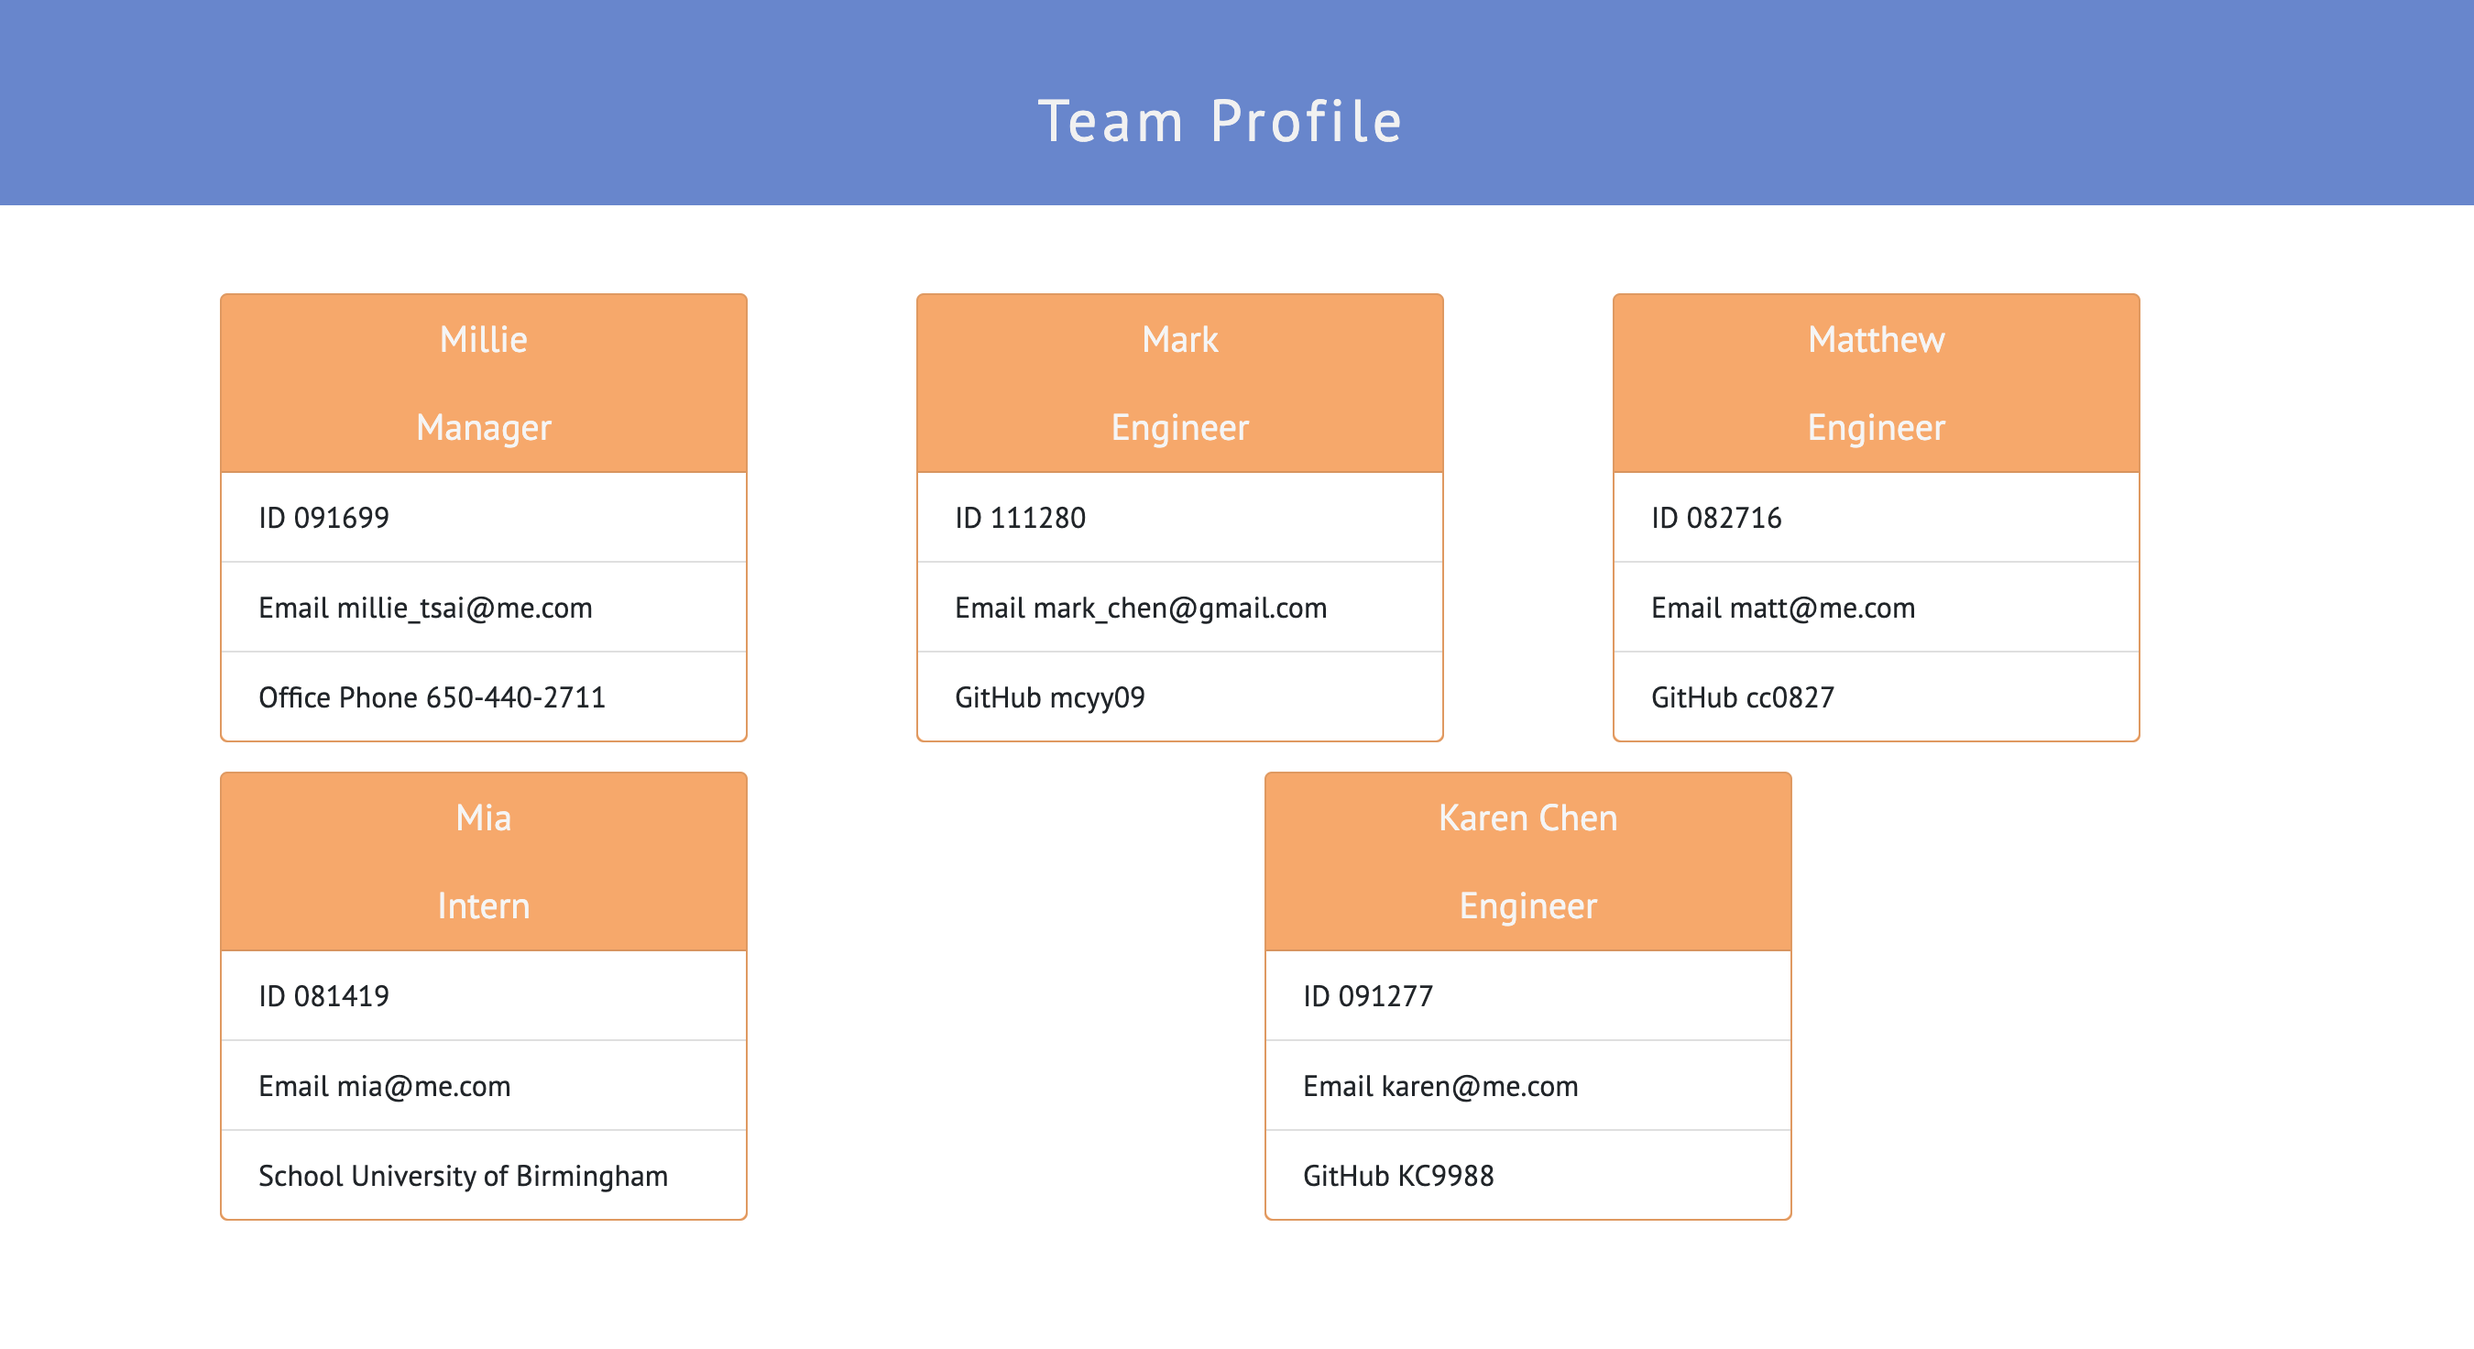
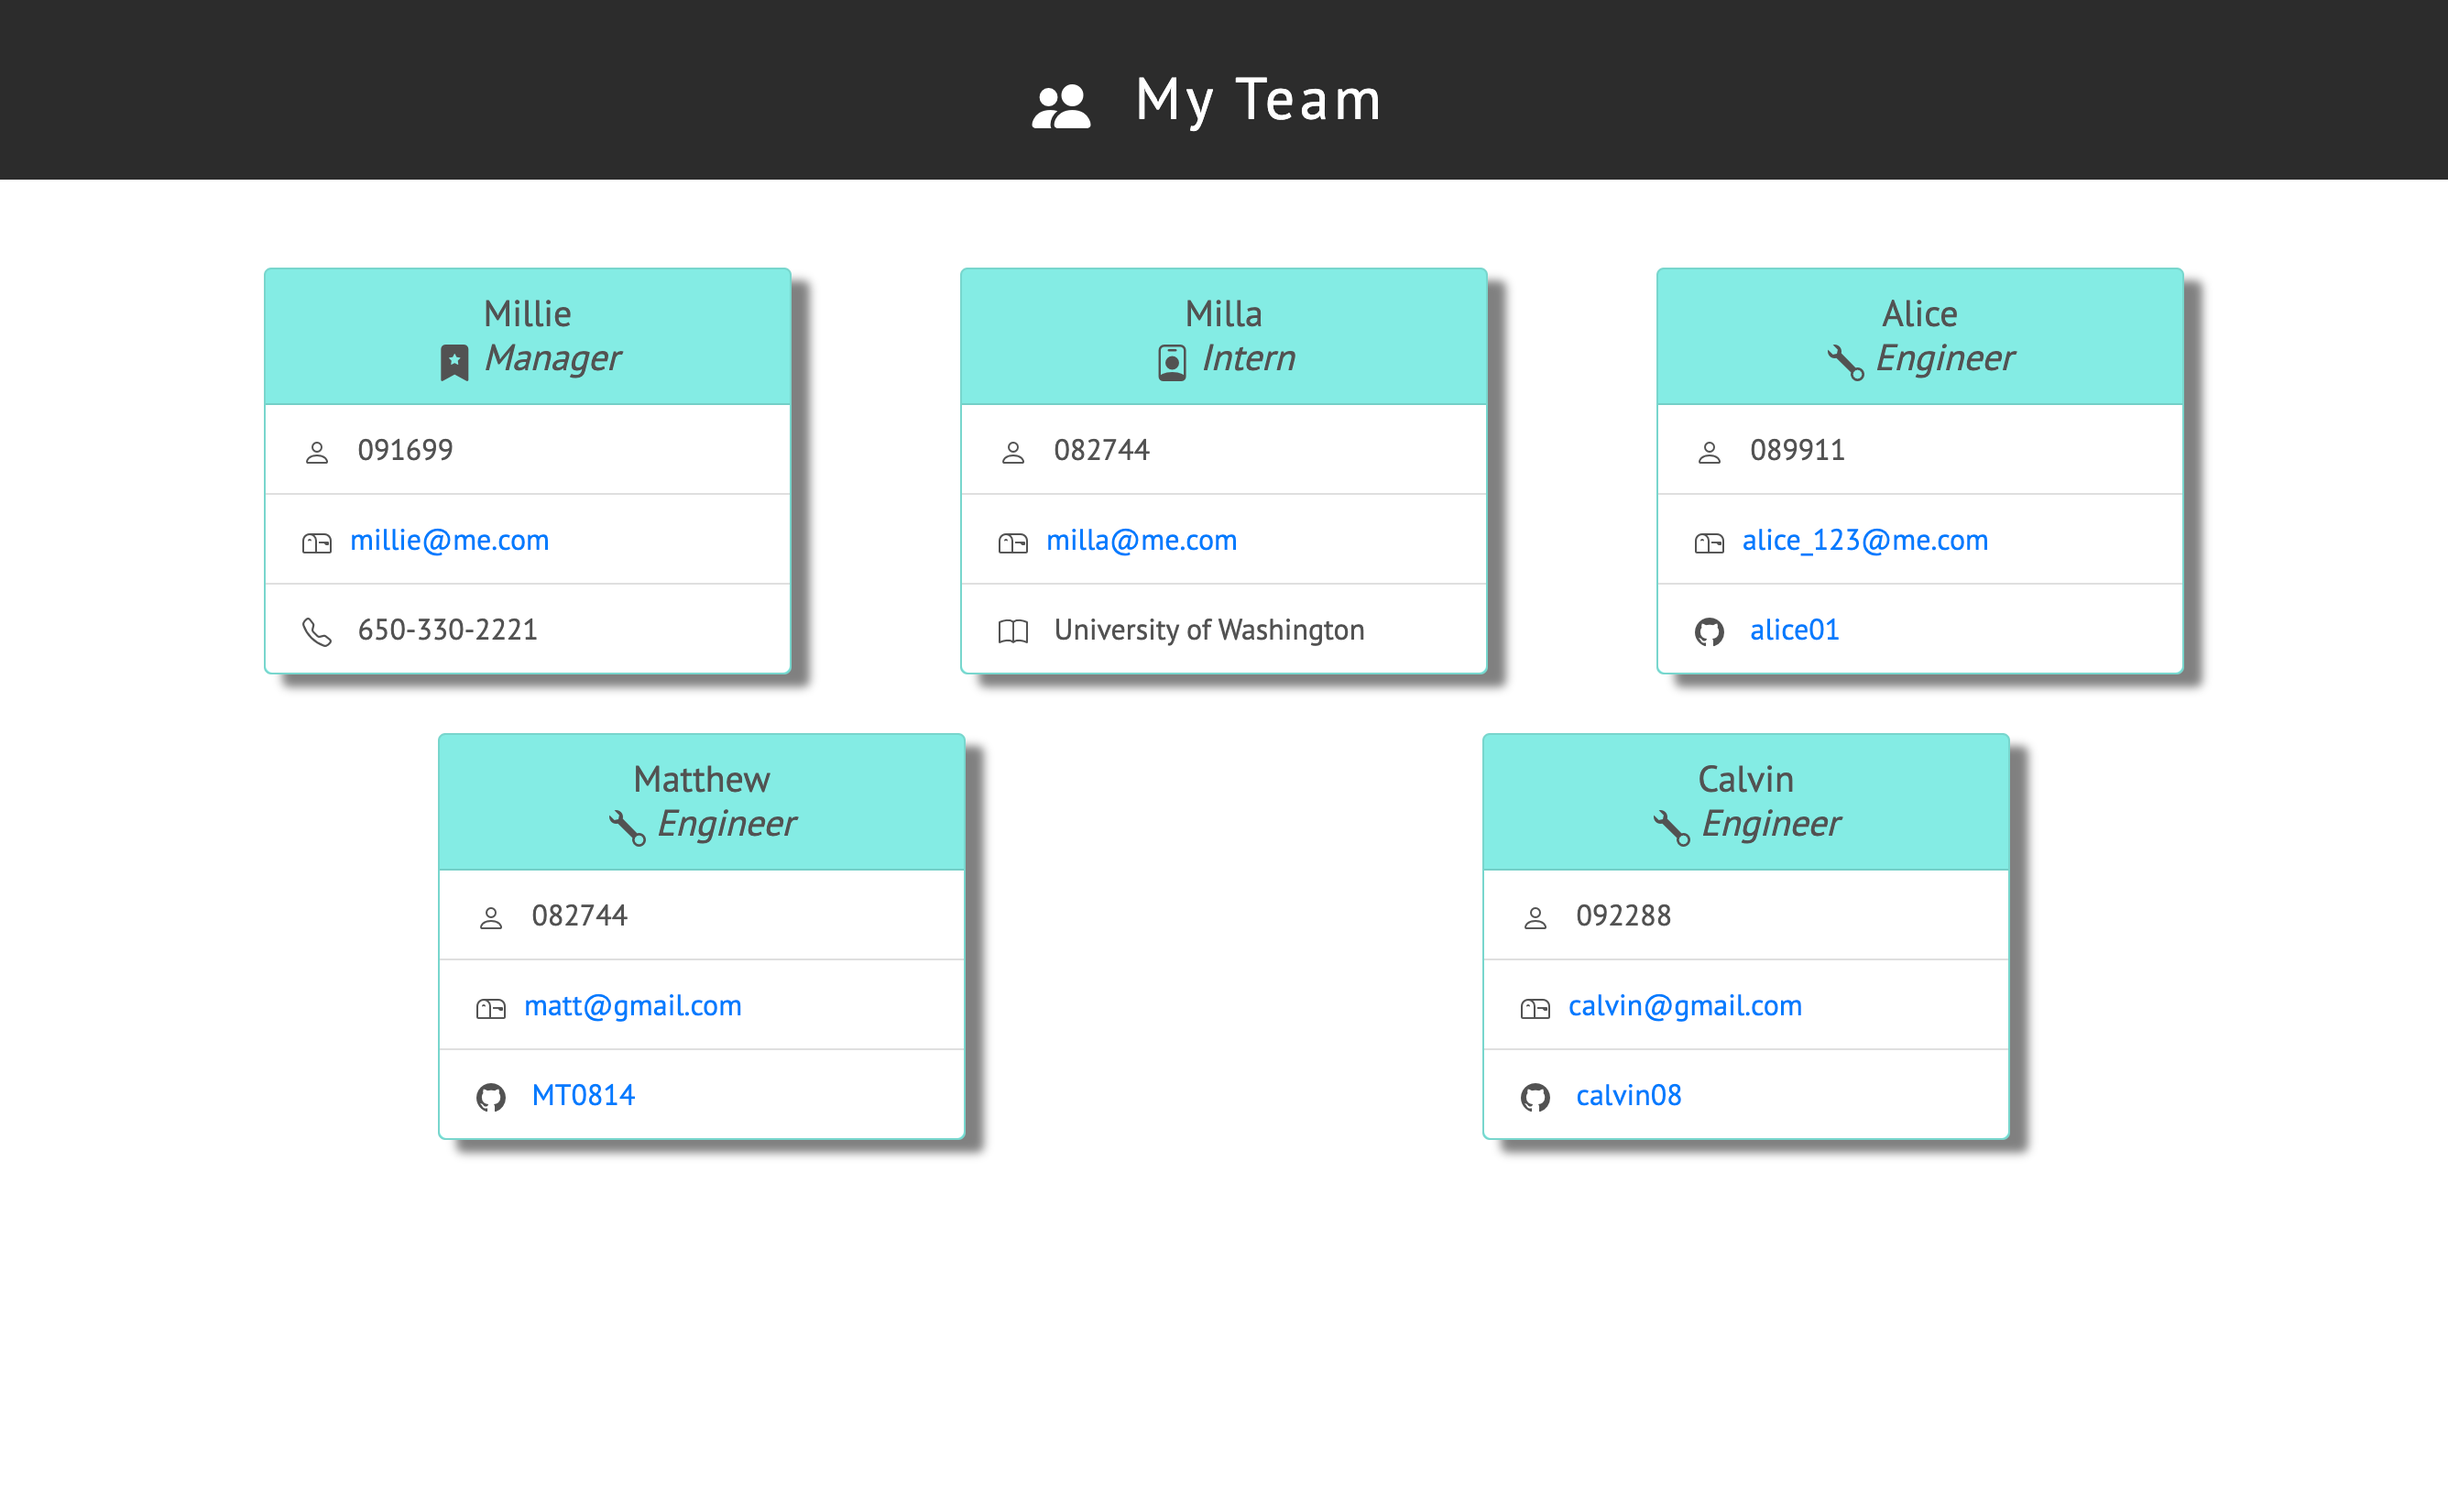
udpated readme, CSS, screenshot

diff --git a/dist/style.css b/dist/style.css
@@ -6,7 +6,7 @@
 }
 
 .navbar {
-  background-color: rgb(82, 82, 82);
+  background-color: rgb(44, 44, 44);
   color: rgb(255, 255, 255);
   font-weight: 600;
   margin-bottom: 0px;

diff --git a/README.md b/README.md
@@ -6,7 +6,7 @@
 
 Build a Node.js command-line application that takes in information about employees on a software engineering team, then generates an HTML webpage that displays summaries for each person. I also write a unit test for every part of my code to ensure that it passes each test.
 
-## User Story
+### User Story
 
 ```md
 AS A manager
@@ -14,7 +14,7 @@ I WANT to generate a webpage that displays my team's basic info
 SO THAT I have quick access to their emails and GitHub profiles
 ```
 
-## Acceptance Criteria
+### Acceptance Criteria
 
 ```md
 GIVEN a command-line application that accepts user input
@@ -45,50 +45,19 @@ THEN I exit the application, and the HTML is generated
 node index.js
 ```
 
-Starts with a directory structure that looks like the following example:
+### Video
 
-```md
-├── **tests**/ //jest tests
-│ ├── Employee.test.js
-│ ├── Engineer.test.js
-│ ├── Intern.test.js
-│ └── Manager.test.js
-├── dist/ // rendered output (HTML) and CSS style sheet  
-├── lib/ // classes
-├── src/ // template helper code
-├── .gitignore // indicates which folders and files Git should ignore
-├── index.js // runs the application
-└── package.json
-```
+- Build Team Profile Demo (Please click screenshot to watch the video)
+  [![Build Team Profile Demo](./assets/screenshot-team-profile.png)](https://drive.google.com/file/d/1g4h9gE66yb013y91J39bK_e-48-ehhn2/view?usp=sharing)
 
-### Walkthrough Video: 32%
+- Run Test Demo (Please click screenshot to watch the video)
+  [![Run Test Demo](./assets/screenshot-run-test.png)](https://drive.google.com/file/d/1RXt_rKYd3YXcN9edgOKrMFz9WRec87Ul/view?usp=sharing)
 
-- A walkthrough video that demonstrates the functionality of the Team Profile Generator and passing tests must be submitted, and a link to the video should be included in your README file.
+### Screenshot
 
-- The walkthrough video must show all four tests passing from the command line.
+- Landscape Mode
+  ![Team Profile screenshot](./assets/team-profile-website.png)
 
-- The walkthrough video must demonstrate how a user would invoke the application from the command line.
-
-- The walkthrough video must demonstrate how a user would enter responses to all of the prompts in the application.
-
-- The walkthrough video must demonstrate a generated HTML file that matches the user input.
-
-### Technical Acceptance Criteria: 40%
-
-- Satisfies all of the preceding acceptance criteria plus the following:
-
-  - Uses the [Inquirer package](https://www.npmjs.com/package/inquirer).
-
-  - Uses the [Jest package](https://www.npmjs.com/package/jest) for a suite of unit tests.
-
-  - The application must have `Employee`, `Manager`, `Engineer`, and `Intern` classes.
-
-## Video
-
--Build Team Profile Demo (Please click screenshot to watch the video)
-[![Build Team Profile Demo](./assets/screenshot-team-profile.png)](https://drive.google.com/file/d/1cQC4N5FSpRfQCaVOR2YtOhCpBrwFiH52/view?usp=sharing)
-
--Run Test Demo (Please click screenshot to watch the video)
-[![Run Test Demo](./assets/screenshot-run-test.png)](https://drive.google.com/file/d/14as434YUhvMEFDEzNKS_K2SLE4QoiWh_/view?usp=sharing)
-
-© 2021 Trilogy Education Services, LLC, a 2U, Inc. brand. Confidential and Proprietary. All Rights Reserved.
+- Portrait Mode
+  ![Team Profile screenshot](./assets/team-profile-website2.png)
+  © 2021 Trilogy Education Services, LLC, a 2U, Inc. brand. Confidential and Proprietary. All Rights Reserved.
